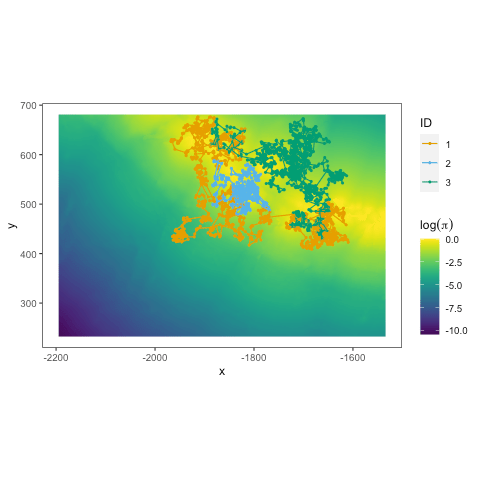
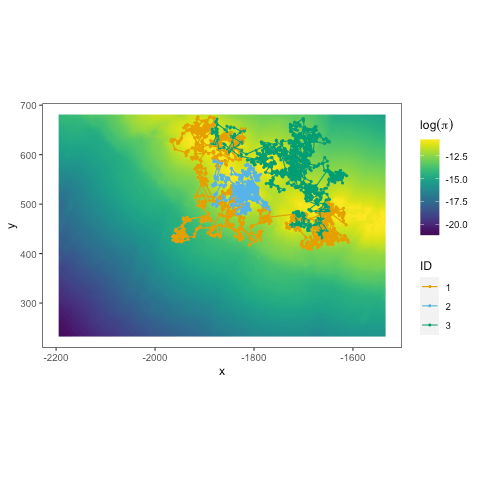
fix simLangevin plot

Changed region(s): [[0.875, 0.25, 0.9688, 0.7188]]

diff --git a/vignettes/momentuHMM.tex b/vignettes/momentuHMM.tex
@@ -4741,7 +4741,7 @@ Let's begin our analysis by first loading and preparing the data:
 \end{verbatim}
 \end{kframe}
 \end{knitrout}
-\noindent Note that a time element is now required (the default name is ``time'' but anything else could be used via the \verb|Time.name| argument in \verb|fitCTHMM|). Here time has been rescaled as hours that start at zero. Next we'll load the habitat covariates, convert them to kilometers, and crop them to the area of interest:
+\noindent Note that a time element is now required (the default name is ``time'' but anything else could be used via the \verb|Time.name| argument in \verb|fitCTHMM|). Here time has been rescaled to hours that start at zero. Next we'll load the habitat covariates, convert them to kilometers, and crop them to the area of interest:
 \begin{knitrout}
 \definecolor{shadecolor}{rgb}{0.969, 0.969, 0.969}\color{fgcolor}\begin{kframe}
 \begin{alltt}
@@ -4867,6 +4867,7 @@ To specify the Langevin model of \citet{MichelotEtAl2019}, we must use the \verb
                         \hlkwc{dist}\hlstd{=}\hlkwd{list}\hlstd{(}\hlkwc{mu}\hlstd{=}\hlstr{"rw_mvnorm2"}\hlstd{),}
                         \hlkwc{DM}\hlstd{=DM,}
                         \hlkwc{Par0}\hlstd{=}\hlkwd{list}\hlstd{(}\hlkwc{mu}\hlstd{=}\hlkwd{c}\hlstd{(}\hlnum{1}\hlstd{,}\hlnum{0}\hlstd{,}\hlnum{0}\hlstd{,}\hlnum{0}\hlstd{,}\hlnum{2.5}\hlstd{,}\hlnum{0}\hlstd{)),}
+                        \hlkwc{mvnCoords} \hlstd{=} \hlstr{"mu"}\hlstd{,}
                         \hlkwc{fixPar}\hlstd{=}\hlkwd{list}\hlstd{(}\hlkwc{mu}\hlstd{=}\hlkwd{c}\hlstd{(}\hlnum{1}\hlstd{,}\hlkwd{rep}\hlstd{(}\hlnum{NA}\hlstd{,}\hlnum{3}\hlstd{),}\hlnum{NA}\hlstd{,}\hlnum{0}\hlstd{)))}
 \end{alltt}
 
@@ -4998,7 +4999,7 @@ To specify the Langevin model of \citet{MichelotEtAl2019}, we must use the \verb
 \begin{figure}
 \center
 \includegraphics[width=1\textwidth]{plot_simLangevin.png}
-\caption{Simulated tracks for three Steller sea lion tracks from the fitted Langevin model.}
+\caption{Simulated Steller sea lion tracks from the fitted Langevin model.}
 \end{figure}
 \noindent For an application of a multistate version of this model using \verb|momentuHMM|, see \citet{McClintockLander2022}.
 
